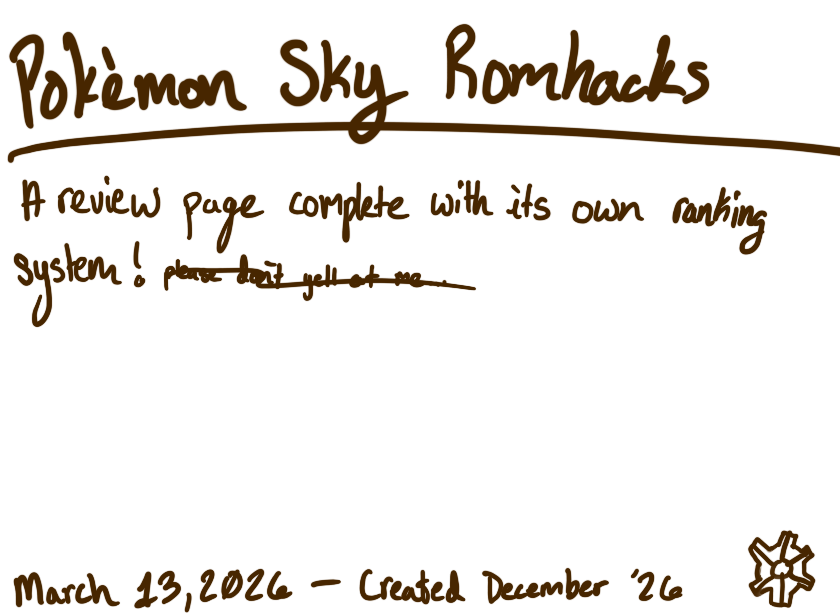
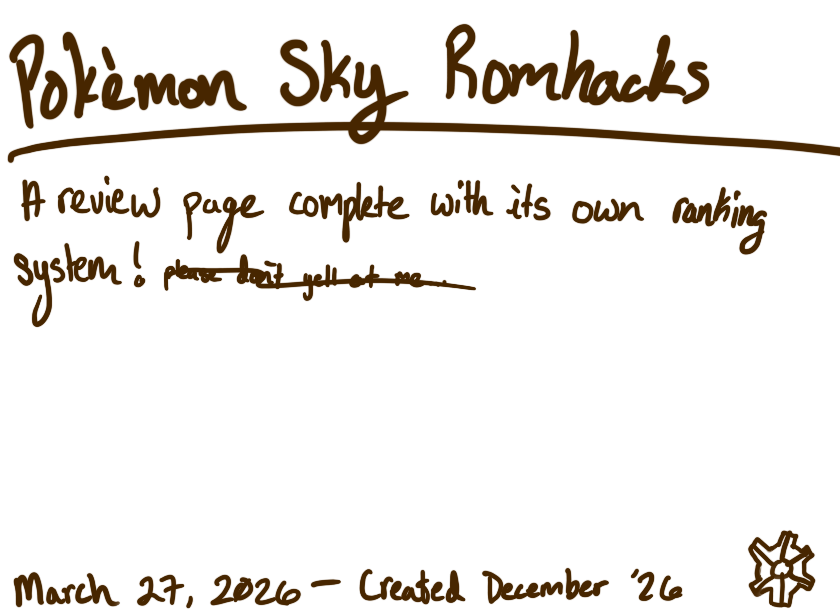
Updated index and added a new project

Changed region(s): [[0.1548, 0.9253, 0.3714, 1.0]]

diff --git a/docs/index.html b/docs/index.html
@@ -38,6 +38,24 @@
             <div class="container ms-1">
 
                 <details>
+                    <summary><b>May 27th, 2026</b></summary>
+                    <div class="container ms-1">
+                        <ul>
+                            <li>Index</li>
+                            <ul>
+                                <li>Added a project.</li>
+                            </ul>
+                            <li>Scratchpad/PMD Sky</li>
+                            <ul>
+                                <li>Added a review for Tunnel Run.</li>
+                                <li>Added a review for Aggron's Grand Opening.</li>
+                                <li>Fixed a broken image.</li>
+                            </ul>
+                        </ul>
+                    </div>
+                </details>
+
+                <details>
                     <summary><b>May 19th, 2026</b></summary>
                     <div class="container ms-1">
                         <ul>
@@ -143,12 +161,25 @@
                         <div class="col text-end"><i>Calculate Skill Rating With Stats</i></div>
                     </div>
                 </a>
-                <a href="https://print.johang.dev" class="button-block p-4 d-block text-decoration-none border rounded">
-                    <div class="row">
-                        <div class="col text-start"><b>Doane Printer Linux Setup</b></div>
-                        <div class="col text-end"><i>Not Supported? We'll See About That</i></div>
+                <div class="row">
+                    <div class="col">
+                        <a href="https://print.johang.dev" class="button-block p-4 d-block text-decoration-none border rounded">
+                            <div class="row">
+                                <div class="col text-start"><b>Doane Printer Linux Setup</b></div>
+                                <div class="col text-end"><i>Not Supported? Not With That Attitude!</i></div>
+                            </div>
+                        </a>
                     </div>
-                </a>
+                    <div class="col">
+                        <a href="https://github.com/Johang727/SkyHackOrganizer" class="button-block p-4 d-block text-decoration-none border rounded">
+                            <div class="row">
+                                <div class="col text-start"><b>PMD 2 Hack Organizer</b></div>
+                                <div class="col text-end"><i>Patch and Play Made Simpler (in my opinion)</i></div>
+                            </div>
+                        </a>
+                    </div>
+                </div>
+
             </div>
 
             <hr>
